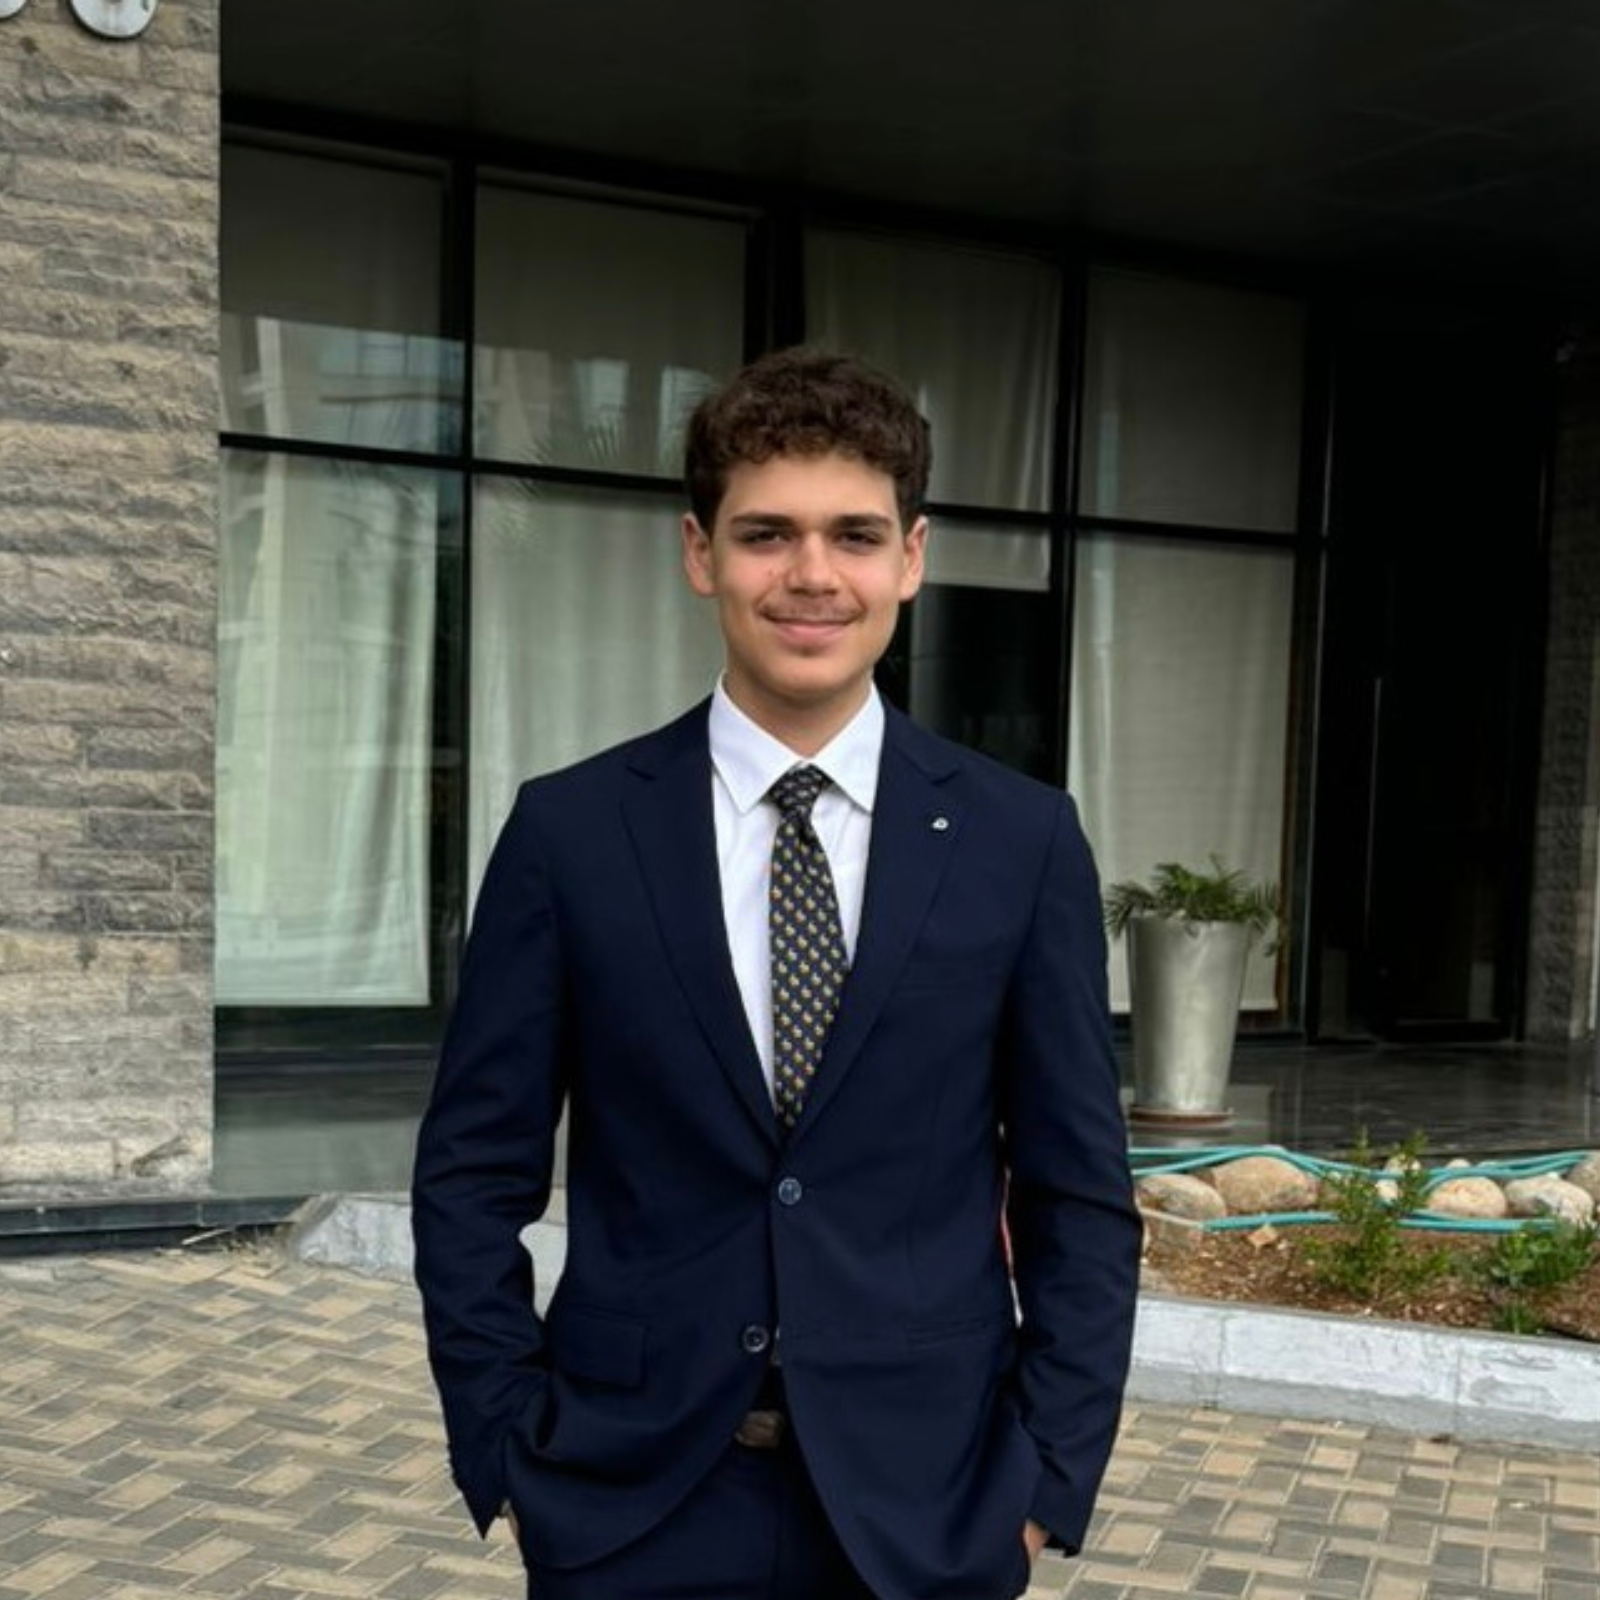
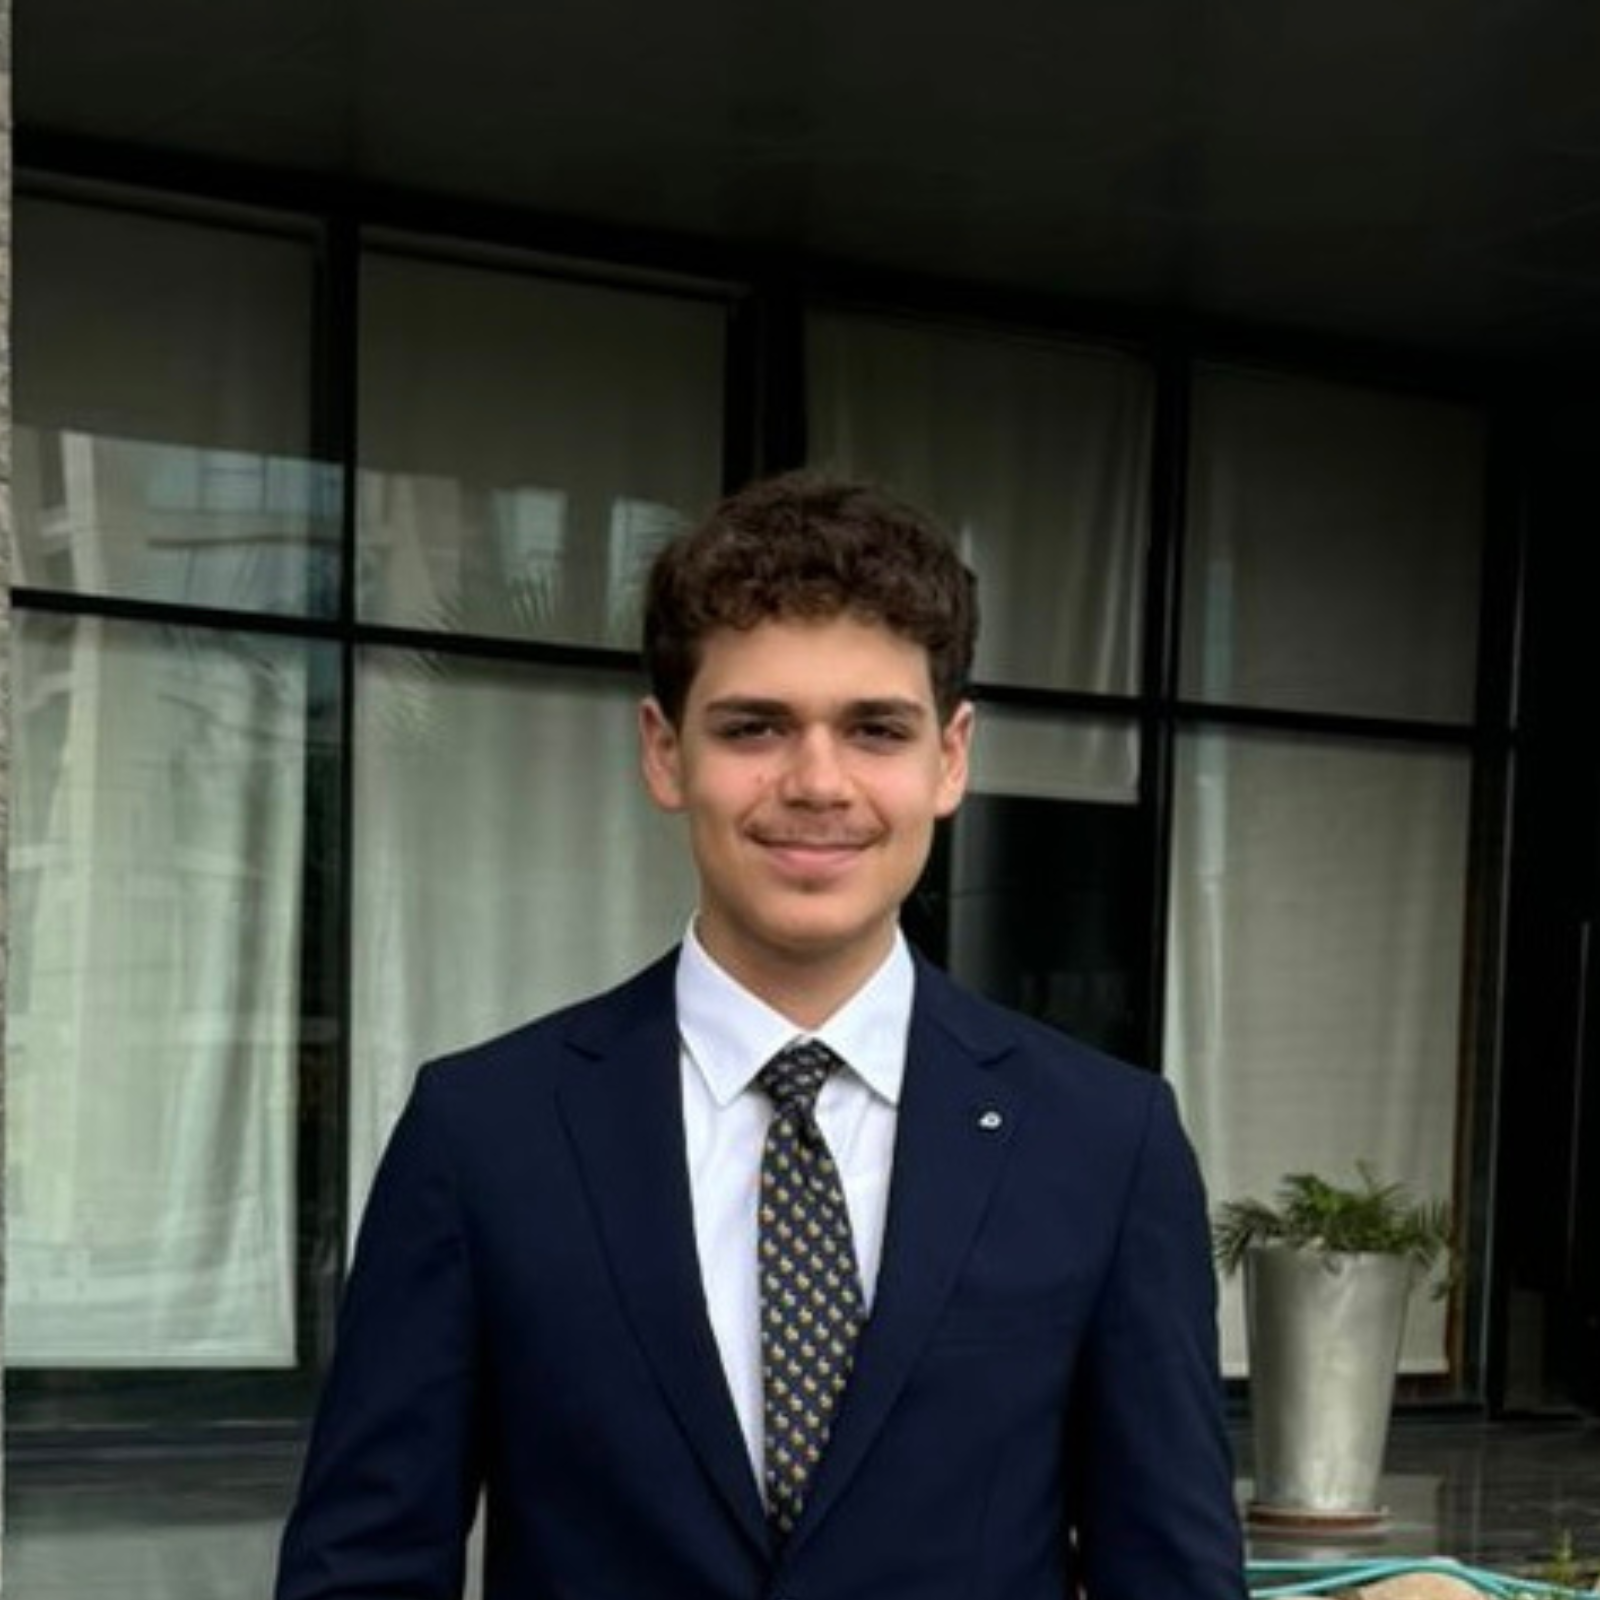
updated

diff --git a/index.html b/index.html
@@ -87,7 +87,7 @@
 
             <div class="row justify-content-between gy-4">
               <div class="col-lg-5">
-                <img src="assets/img/Untitled design (15).png" class="img-fluid" alt="">
+                <img src="assets/img/Untitled design (13).png" class="img-fluid" alt="">
               </div>
               <div class="col-lg-7 about-info">
                 <p><strong>Soft skills: </strong> <span>Adaptable, communication, reflective</span></p>
